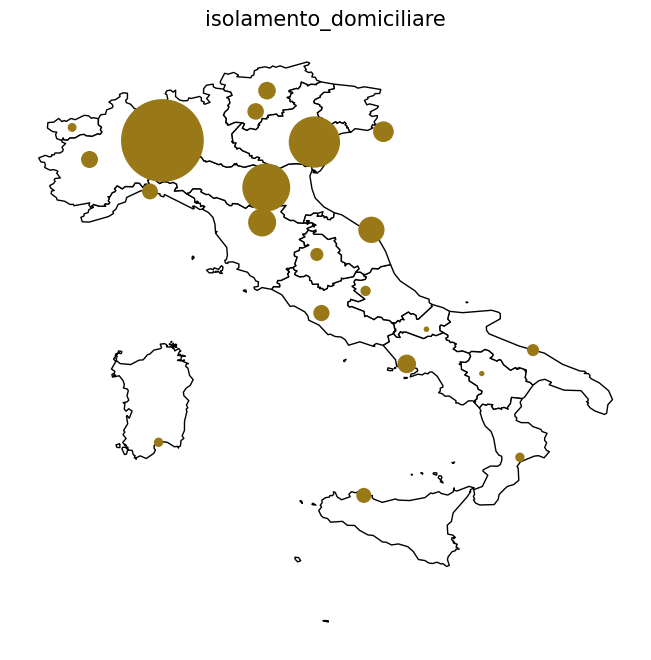
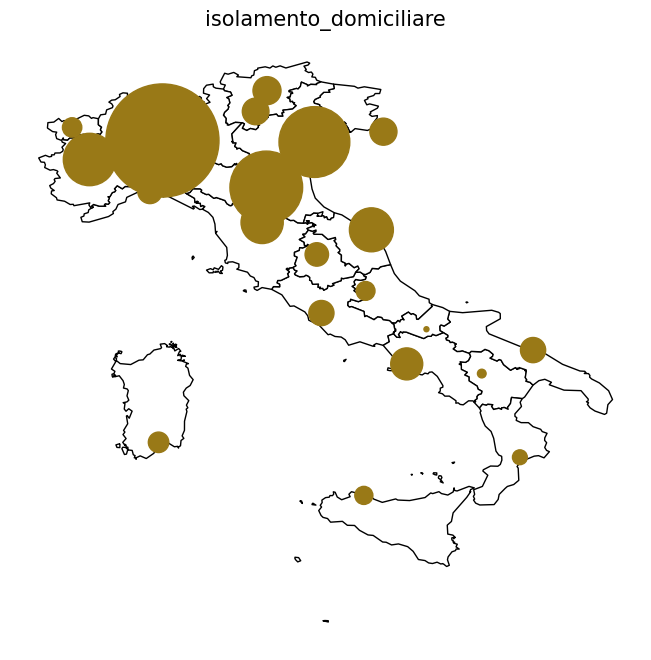
solving problem for maps

diff --git a/main.py b/main.py
@@ -3,7 +3,7 @@ import time
 import telepot
 from telepot.loop import MessageLoop
 from telepot.namedtuple import InlineKeyboardMarkup, InlineKeyboardButton, InlineQueryResultArticle, InputTextMessageContent
-
+import datetime
 import requests
 import json
 from pprint import pprint
@@ -17,6 +17,7 @@ from GraphManagement.AdvancedGraphManager import AdvancedGraphManager
 import json
 import codecs
 import matplotlib.pyplot as plt
+from io import StringIO
 
 listOfRegions=['Abruzzo','Basilicata','Calabria','Campania','Emilia_Romagna','Friuli_Venezia_Giulia','Lazio','Liguria',
                'Lombardia','Marche','Molise','Piemonte','Puglia','Sardegna','Sicilia','Toscana','Trentino_Alto_Adige','Umbria','Valle_D_Aosta','Veneto']
@@ -186,11 +187,13 @@ if __name__ == "__main__":
 
     urlNationalData = "https://raw.githubusercontent.com/pcm-dpc/COVID-19/master/dati-json/dpc-covid19-ita-andamento-nazionale.json"
     urlRegionalData = "https://raw.githubusercontent.com/pcm-dpc/COVID-19/master/dati-json/dpc-covid19-ita-regioni.json"
+    urlCVS = "https://raw.githubusercontent.com/pcm-dpc/COVID-19/master/dati-province/dpc-covid19-ita-province-{YYYYMMDD}.csv"
+    urlCVS = urlCVS.replace("{YYYYMMDD}",datetime.today().strftime('%Y%m%d'))
     jsonData = getDataFromJson(urlNationalData)
     jsonRegionalData = getDataFromJson(urlRegionalData)
     bot = telepot.Bot(TOKEN)
     bot.urlNationalData = urlNationalData
-    data = DocManager().update()
+    data = StringIO(requests.get(urlCVS).text)
     mappe = MapManagementClass(data)
     grafi = GraphManager()
     confronto = ConfrontoManager()
@@ -209,7 +212,9 @@ if __name__ == "__main__":
         time.sleep(300) # al più 5 minuti di ritardo dal server.
         jsonData = getDataFromJson(urlNationalData)
         jsonRegionalData = getDataFromJson(urlRegionalData)
-        data = DocManager().update()
+        urlCVS = "https://raw.githubusercontent.com/pcm-dpc/COVID-19/master/dati-province/dpc-covid19-ita-province-{YYYYMMDD}.csv"
+        urlCVS = urlCVS.replace("{YYYYMMDD}",datetime.today().strftime('%Y%m%d'))
+        data = StringIO(requests.get(urlCVS).text)
         mappe = MapManagementClass(data)
         grafi = GraphManager()
         confronto = ConfrontoManager()
